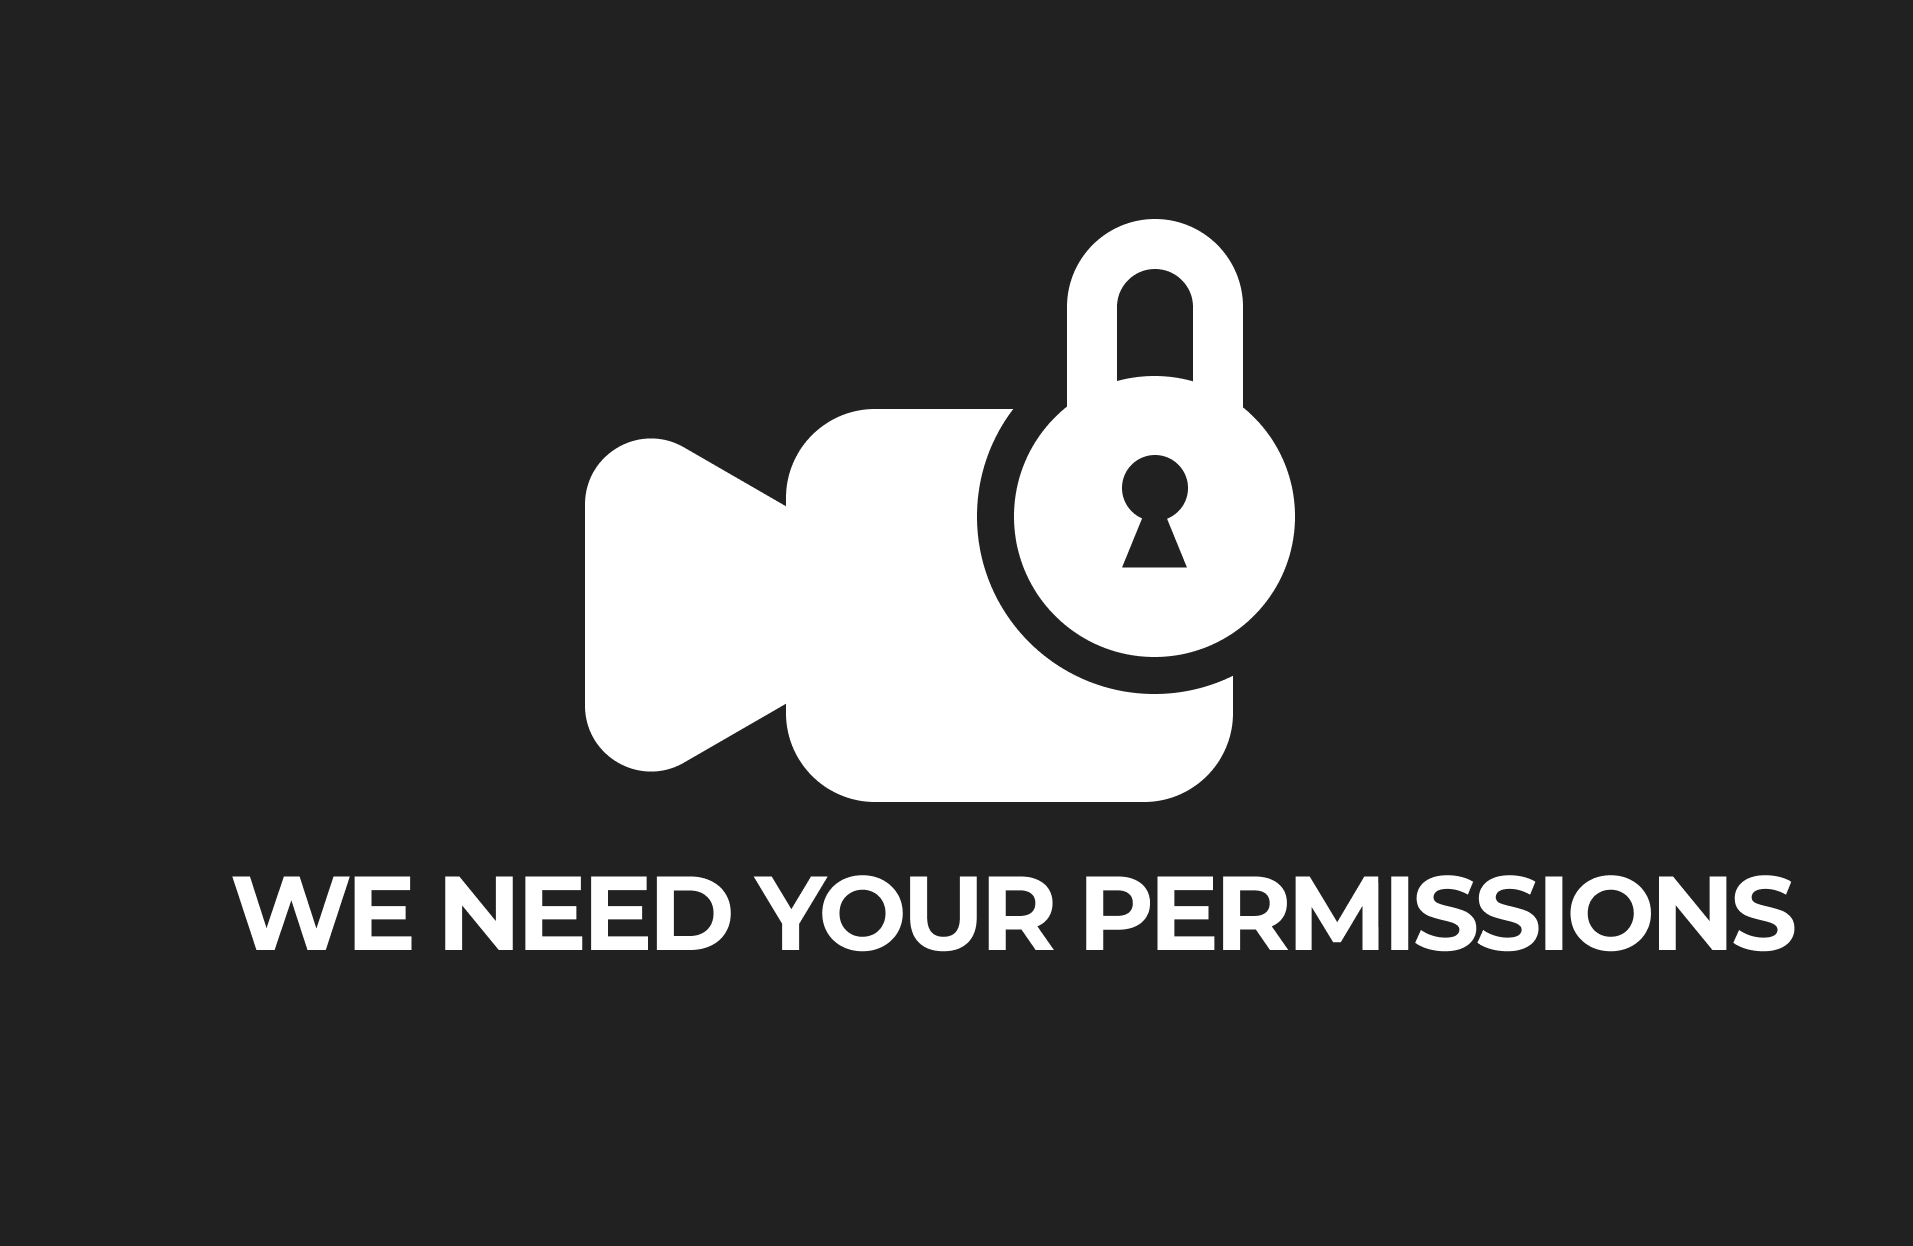
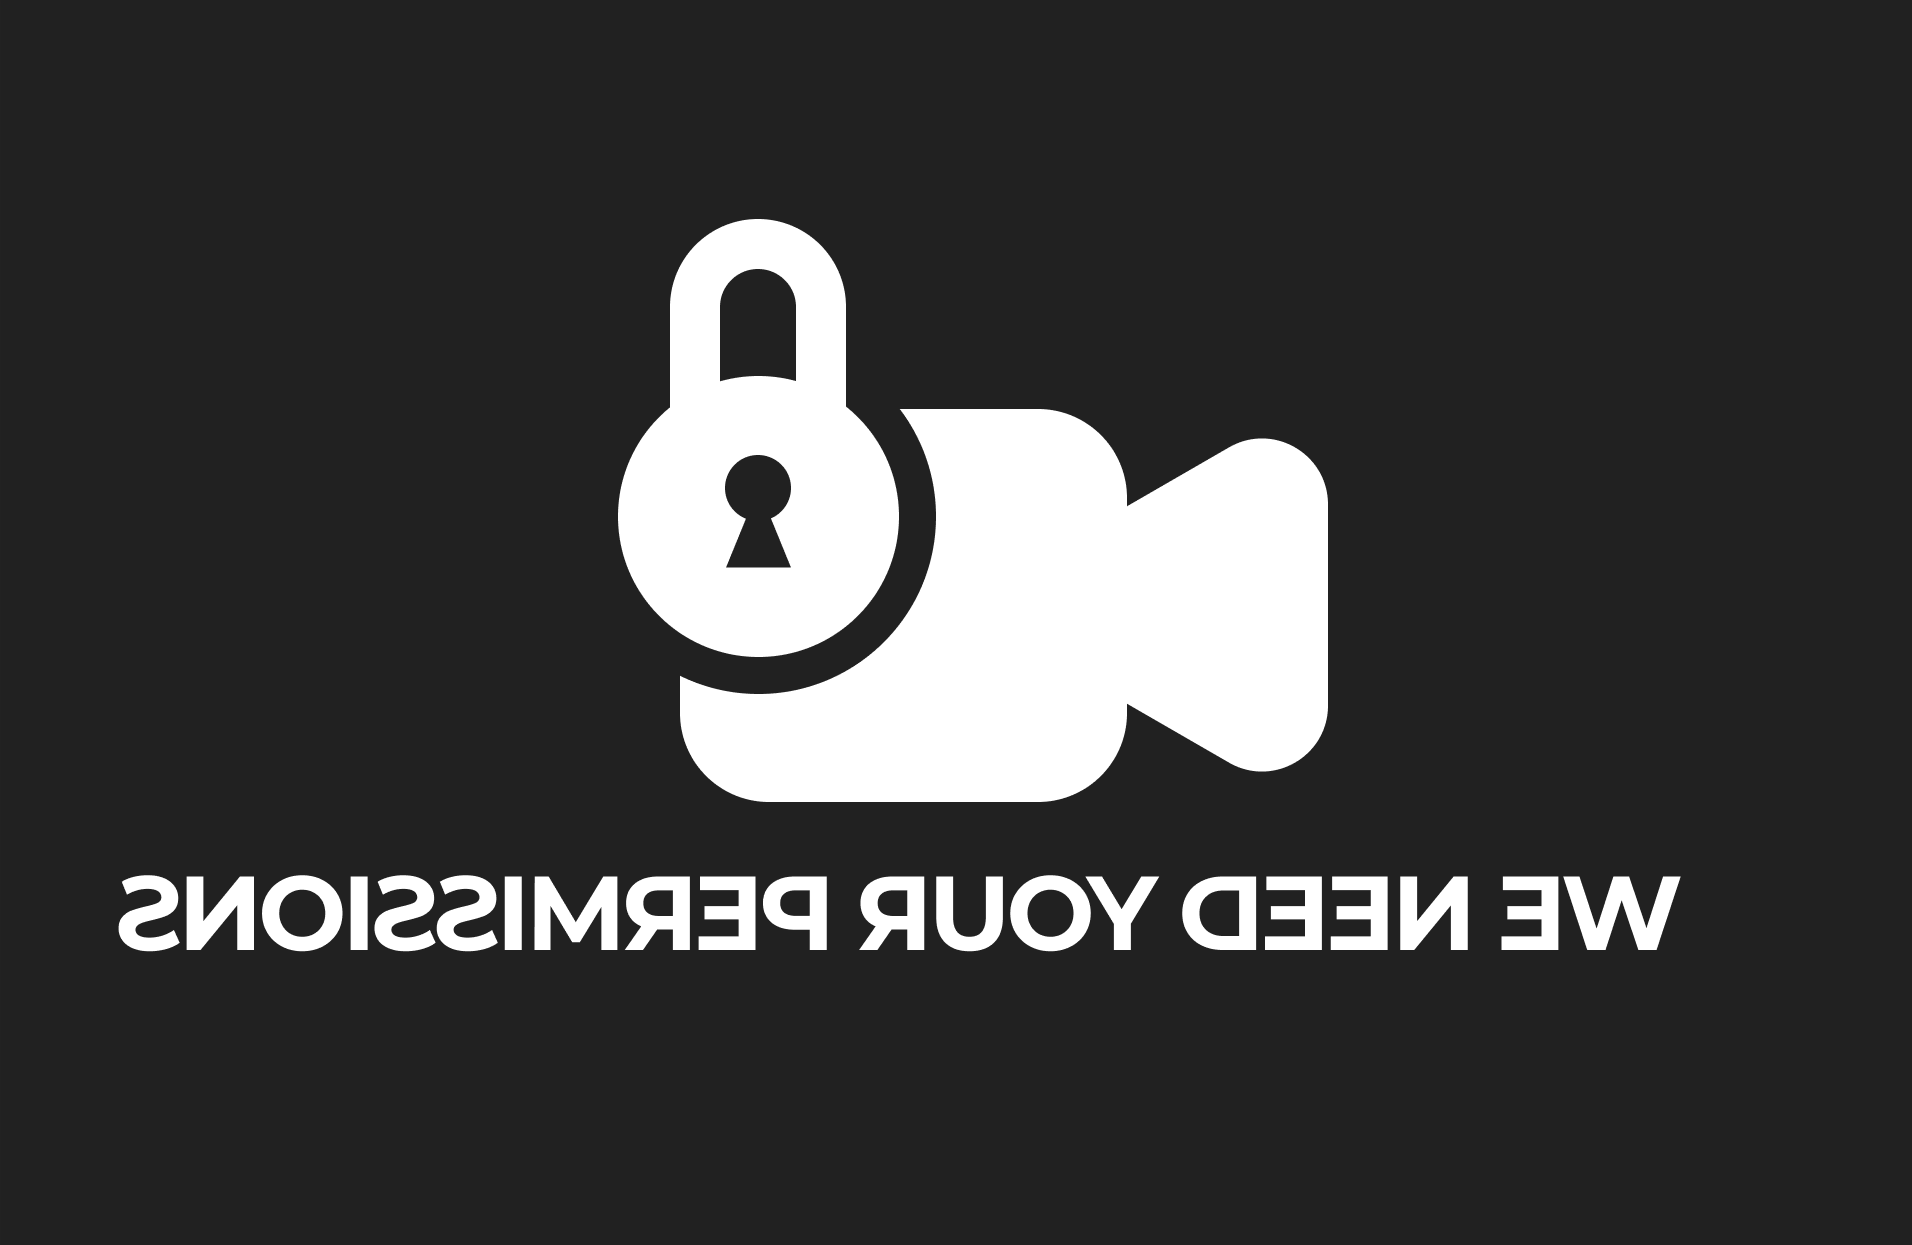
added post class

Changed region(s): [[0.2777, 0.1526, 0.7097, 0.6715], [0.0617, 0.702, 0.9566, 0.7631]]

diff --git a/assets/js/camera.js b/assets/js/camera.js
@@ -2,13 +2,53 @@ window.addEventListener("load", function() {
 	var video = document.getElementById('video');
 	var canvas = document.getElementById('canvas');
 	var snap = document.getElementById('snap');
+	var img = document.getElementById('img');
+	var save = document.getElementById('save');
+	var stream;
 
-	navigator.mediaDevices.getUserMedia({ audio:false, video: {width: 640, height: 480}}).then(function (mediaStream) {
-		video.srcObject = mediaStream
+	navigator.mediaDevices.getUserMedia({ audio:false, video: {width: 800, height: 800}}).then(function (mediaStream) {
+		video.srcObject = mediaStream;
+		stream = mediaStream;
 		video.onloadedmetadata = function(e) {
 		video.play();
 	};
 	}).catch(function (err) {
 		console.log("Erreur: " + err);
 	})
+
+	snap.addEventListener('click', function (e) {
+		e.preventDefault();
+		var context = canvas.getContext('2d');
+		canvas.width = 800;
+		canvas.height = 800;
+		context.translate(canvas.width, 0);
+		context.scale(-1, 1);
+		context.drawImage(video, 0, 0, 800, 800);
+		var data = canvas.toDataURL('image/png');
+		stream.getTracks().forEach(function(track) {
+			track.stop();
+		});
+		img.setAttribute("src", data);
+		video.style.display = "none";
+		snap.style.display = "none";
+		img.style.display = "block";
+		save.style.display = "block";
+		retake.style.display = "block";
+		// var xhttp = new XMLHttpRequest();
+		// var xhttp = new XMLHttpRequest();
+		// xhttp.onreadystatechange = function() {
+		// 	if (this.readyState == 4 && this.status == 200) {
+		// 		if (xhttp.responseText === "All good") {
+		// 			var div = document.createElement("div");
+		// 			div.setAttribute("class", "alert alert-success message");
+		// 			div.setAttribute("id", "message");
+		// 			div.innerHTML = "Your Profile picture has been changed successfully";
+		// 			body.insertBefore(div, body.children[2]);
+		// 			setTimeout(function () {
+		// 				div.remove();
+		// 			}, 5000);
+		// 		}
+		// 	}
+		// }
+	});
 });

diff --git a/assets/css/camera.css b/assets/css/camera.css
@@ -7,15 +7,44 @@
 	margin-top: 30px;
 }
 
+h1 {
+	font-size: 30px !important;
+	margin: auto;
+	text-align: center;
+	margin-bottom: 40px;
+}
+
+.col {
+	margin-top: 60px;
+	background-color: #272f51E5;
+	color: white;
+	border-radius: 10px;
+	padding: 50px;
+}
+
+.blank {
+	opacity: 0;
+}
+
 .video {
 	width: 100%;
 	height: auto;
-	background: url('/camagru/assets/images/permission.png');
-	background-size: cover;
-	background-position: center;
+	/* background: url('/camagru/assets/images/permission.png'); */
+	/* background-size: cover; */
+	/* background-position: center; */
 	border: 10px solid #1c2444;
+	border-radius: 10px;
+	-webkit-transform: scaleX(-1);
+	transform: scaleX(-1);
 }
 
-#canvas {
+#canvas, #img, #save, #retake {
 	display: none;
+}
+
+.preview {
+	width: 100%;
+	height: auto;
+	border: 10px solid #1c2444;
+	border-radius: 10px;
 }

diff --git a/assets/js/editProfilePic.js b/assets/js/editProfilePic.js
@@ -23,7 +23,6 @@ window.addEventListener('load', function() {
 					spinner.style.display = "none";
 					if (this.readyState == 4 && this.status == 200) {
 						if (xhttp.responseText === "All good") {
-							var ratio = canvas.width / canvas.height;
 							pdp.setAttribute("src", data);
 							pdp2.setAttribute("src", data);
 							var div = document.createElement("div");

diff --git a/assets/css/global.css b/assets/css/global.css
@@ -23,7 +23,7 @@
 body
 {
 	background: #1c2444;
-	font-family: Montserrat, sans-serif;
+	font-family: 'Montserrat', sans-serif;
 	width: 100%;
 	height: 100%;
 }

diff --git a/assets/css/gallery.css b/assets/css/gallery.css
@@ -4,8 +4,9 @@
 	max-width: 700px;
 }
 
-.top-jumbotron {
+.top-jumbotron ,.jumbotron {
 	margin-top: 30px;
+	margin-bottom: 30px;
 }
 
 .separator {

diff --git a/camera.php b/camera.php
@@ -10,17 +10,35 @@
 	<link rel="stylesheet" href="/camagru/assets/css/camera.css">
 	<script src="/camagru/assets/js/camera.js"></script>
 </head>
-<body>
-	<? include_once("includes/navbar.php") ?>
-	<div class="container">
-		<div class="jumbotron">
-			<h1 class="display-4 text-break">Smile at the camera!</h1>
-			<div class="video-container">
-				<video id="video" class="video" autoplay width="800" height="800"></video>
+<body id="body">
+	<?php include_once("includes/navbar.php") ?>
+	<div class="container-fluid">
+		<div class="row">
+			<div class="col col-1 blank"></div>
+			<div class="col col-6">
+				<h1 class="display-4 text-break">Smile at the camera!</h1>
+				<video id="video" class="video" autoplay>yes</video>
+				<button id="snap" class="botona">
+					<img src="/camagru/assets/images/snap.png" alt="snap" width="25" height="20">
+					Snap
+				</button>
+				<img class="preview" id="img" alt="preview">
+				<button id="save" class="botona">
+					<img src="/camagru/assets/images/save.png" alt="save" width="20" height="20">
+					Save
+				</button>
+				<button id="retake" onclick="javascript:history.go(0)" class="botona">
+					<img src="/camagru/assets/images/retake.png" alt="retake" width="20" height="20">
+					Retake
+				</button>
 			</div>
-			<canvas id="canvas"></canvas>
-			<button id="snap" class="botona"> Snap </button>
+			<div class="col col-1 blank"></div>
+			<div class="col col-3">
+				<h1 class="display-4 text-break">Your recent posts:</h1>
+			</div>
+			<div class="col col-1 blank"></div>
 		</div>
 	</div>
+		<canvas id="canvas"></canvas>
 </body>
 </html>

diff --git a/gallery.php b/gallery.php
@@ -13,7 +13,14 @@
 	<?php include("includes/navbar.php"); ?>
 	<div class="container">
 		<div class="jumbotron top-jumbotron text-center mx-auto">
-			<a class="btn btn-primary btn-lg" href="#" role="button">Add a new post</a>
+			<a class="btn btn-primary btn-lg botona m-1 text-break" href="#" role="button">
+				<img src="/camagru/assets/images/snap.png" alt="take a photo" width="25" height="20">
+				Take a photo
+			</a>
+			<a class="btn btn-primary btn-lg botona m-1 text-break" href="#" role="button">
+				<img src="/camagru/assets/images/upload_file.png" alt="upload" width="20" height="20">
+				Upload a photo
+			</a>
 		</div>
 		<div class="jumbotron py-3 px-3 mx-auto">
 			<a class="text-decoration-none text-reset" href="#" id="navbarDropdownMenuLink" role="button" data-toggle="dropdown" aria-haspopup="true" aria-expanded="false">

diff --git a/register.php b/register.php
@@ -32,7 +32,7 @@
 				<input name="registerEmail" class="form-control form-control-lg inputt" type="email" placeholder="Email" required>
 				<input name="registerEmail2" class="form-control form-control-lg inputt" type="email" placeholder="Re-type Email" required>
 				<?php echo $account->getError(Constants::$passwordsDoNotMatch); ?>
-				<?php echo $account->getError(Constants::$passwordIsNotAlphanumeric); ?>
+				<?php echo $account->getError(Constants::$passwordIsNotValid); ?>
 				<?php echo $account->getError(Constants::$passwordCharacters); ?>
 				<input name="registerPassword" class="form-control form-control-lg inputt" type="password" placeholder="Password" required>
 				<input name="registerPassword2" class="form-control form-control-lg inputt" type="password" placeholder="Re-type Password" required>

diff --git a/includes/links.php b/includes/links.php
@@ -2,6 +2,7 @@
 <meta name="viewport" content="width=device-width, initial-scale=1.0">
 <meta http-equiv="X-UA-Compatible" content="ie=edge">
 <link rel="icon" href="/camagru/assets/images/logo.ico">
+<link href="https://fonts.googleapis.com/css?family=Montserrat&display=swap" rel="stylesheet">
 <link href="https://fonts.googleapis.com/css?family=Lobster&display=swap" rel="stylesheet">
 <link rel="stylesheet" href="/camagru/assets/frameworks/bootstrap/css/bootstrap.css">
 <link rel="stylesheet" href="/camagru/assets/css/global.css">

diff --git a/confirm.php b/confirm.php
@@ -1,6 +1,6 @@
 <?php
 	include_once("includes/config.php");
-	include_once("includes/confirm-handler.php")
+	include_once("includes/handlers/confirm-handler.php")
 ?>
 
 <!DOCTYPE html>
@@ -8,7 +8,7 @@
 <head>
 	<?php include_once("includes/links.php"); ?>
 	<link rel="stylesheet" href="/camagru/assets/css/confirmMail.css">
-	<title><?php echo $title; ?></title>
+	<title><?php echo "Camagru - " . $header ; ?></title>
 </head>
 <body>
 	<div class="back">

diff --git a/includes/classes/Constants.class.php b/includes/classes/Constants.class.php
@@ -15,4 +15,5 @@
 			public static $usernameIsNotValid = "Your username must only contains letters and numbers and these characters _ - .";
 			public static $imageCannotBeFound = "Please upload a valid image file.";
 			public static $imageTooBig = "Your image is too big (maximum 2MB).";
+			public static $imageTooBig2 = "Your image is too big (maximum 8MB).";
 		}
